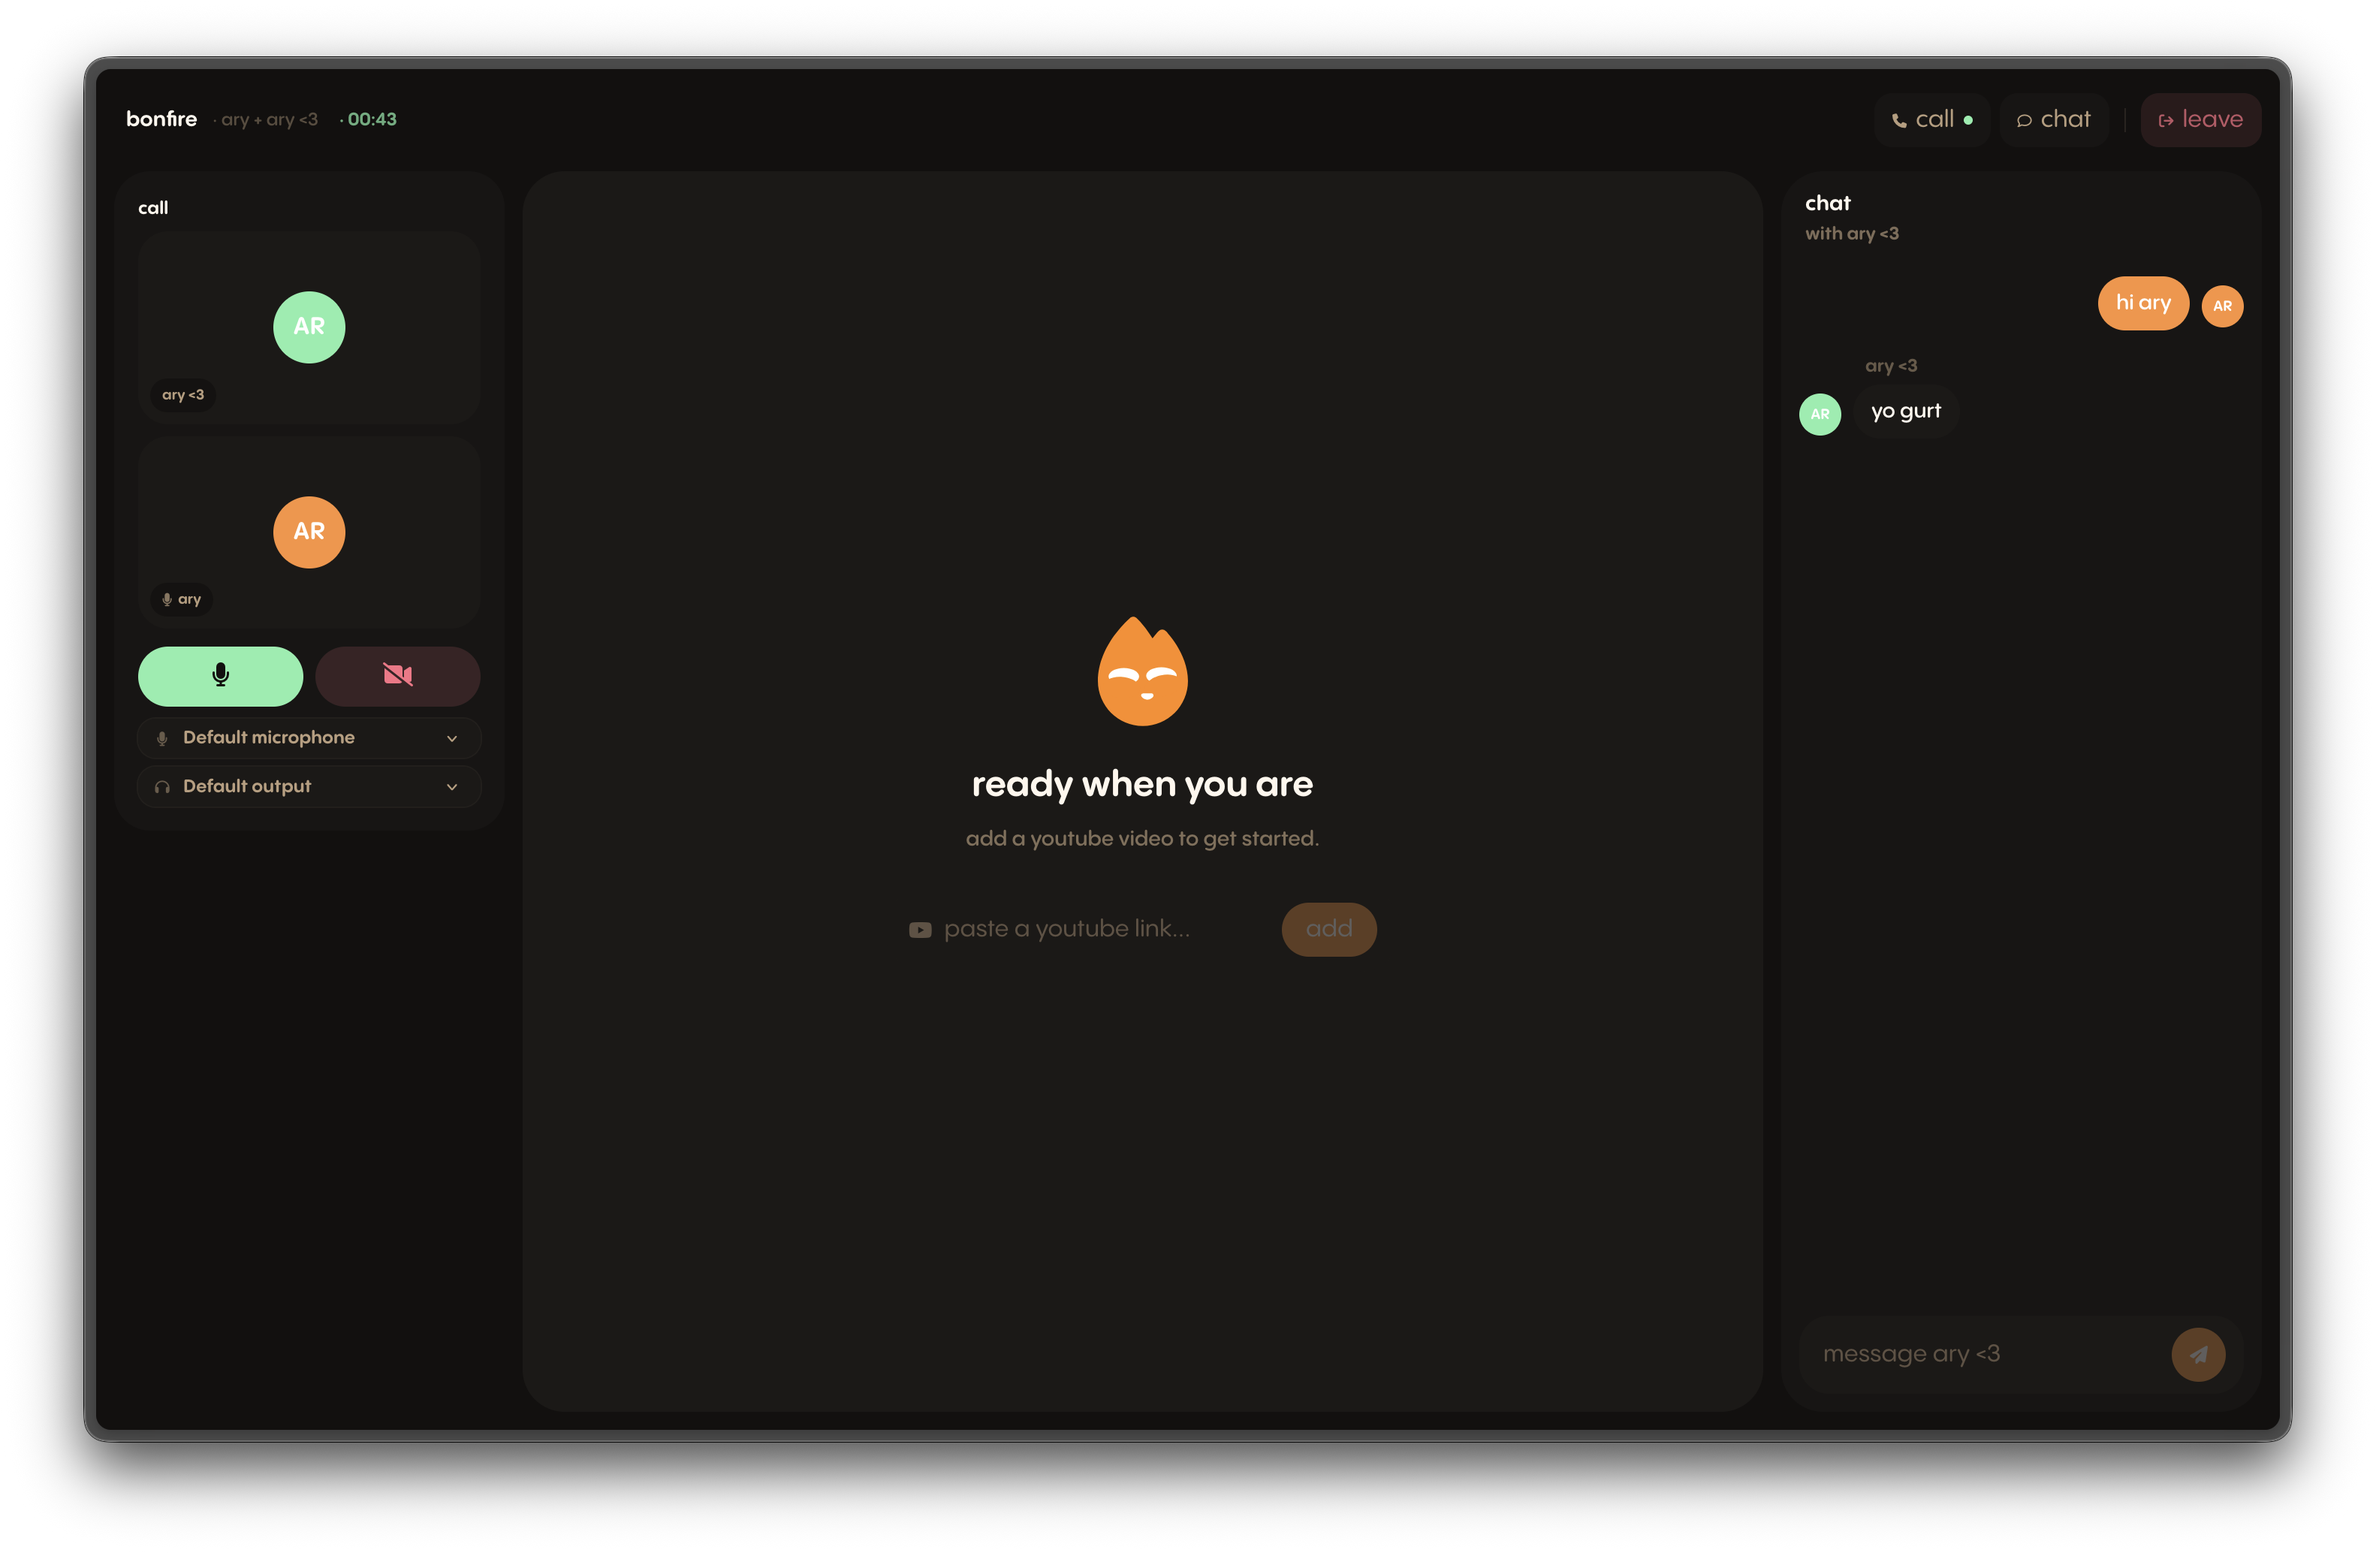
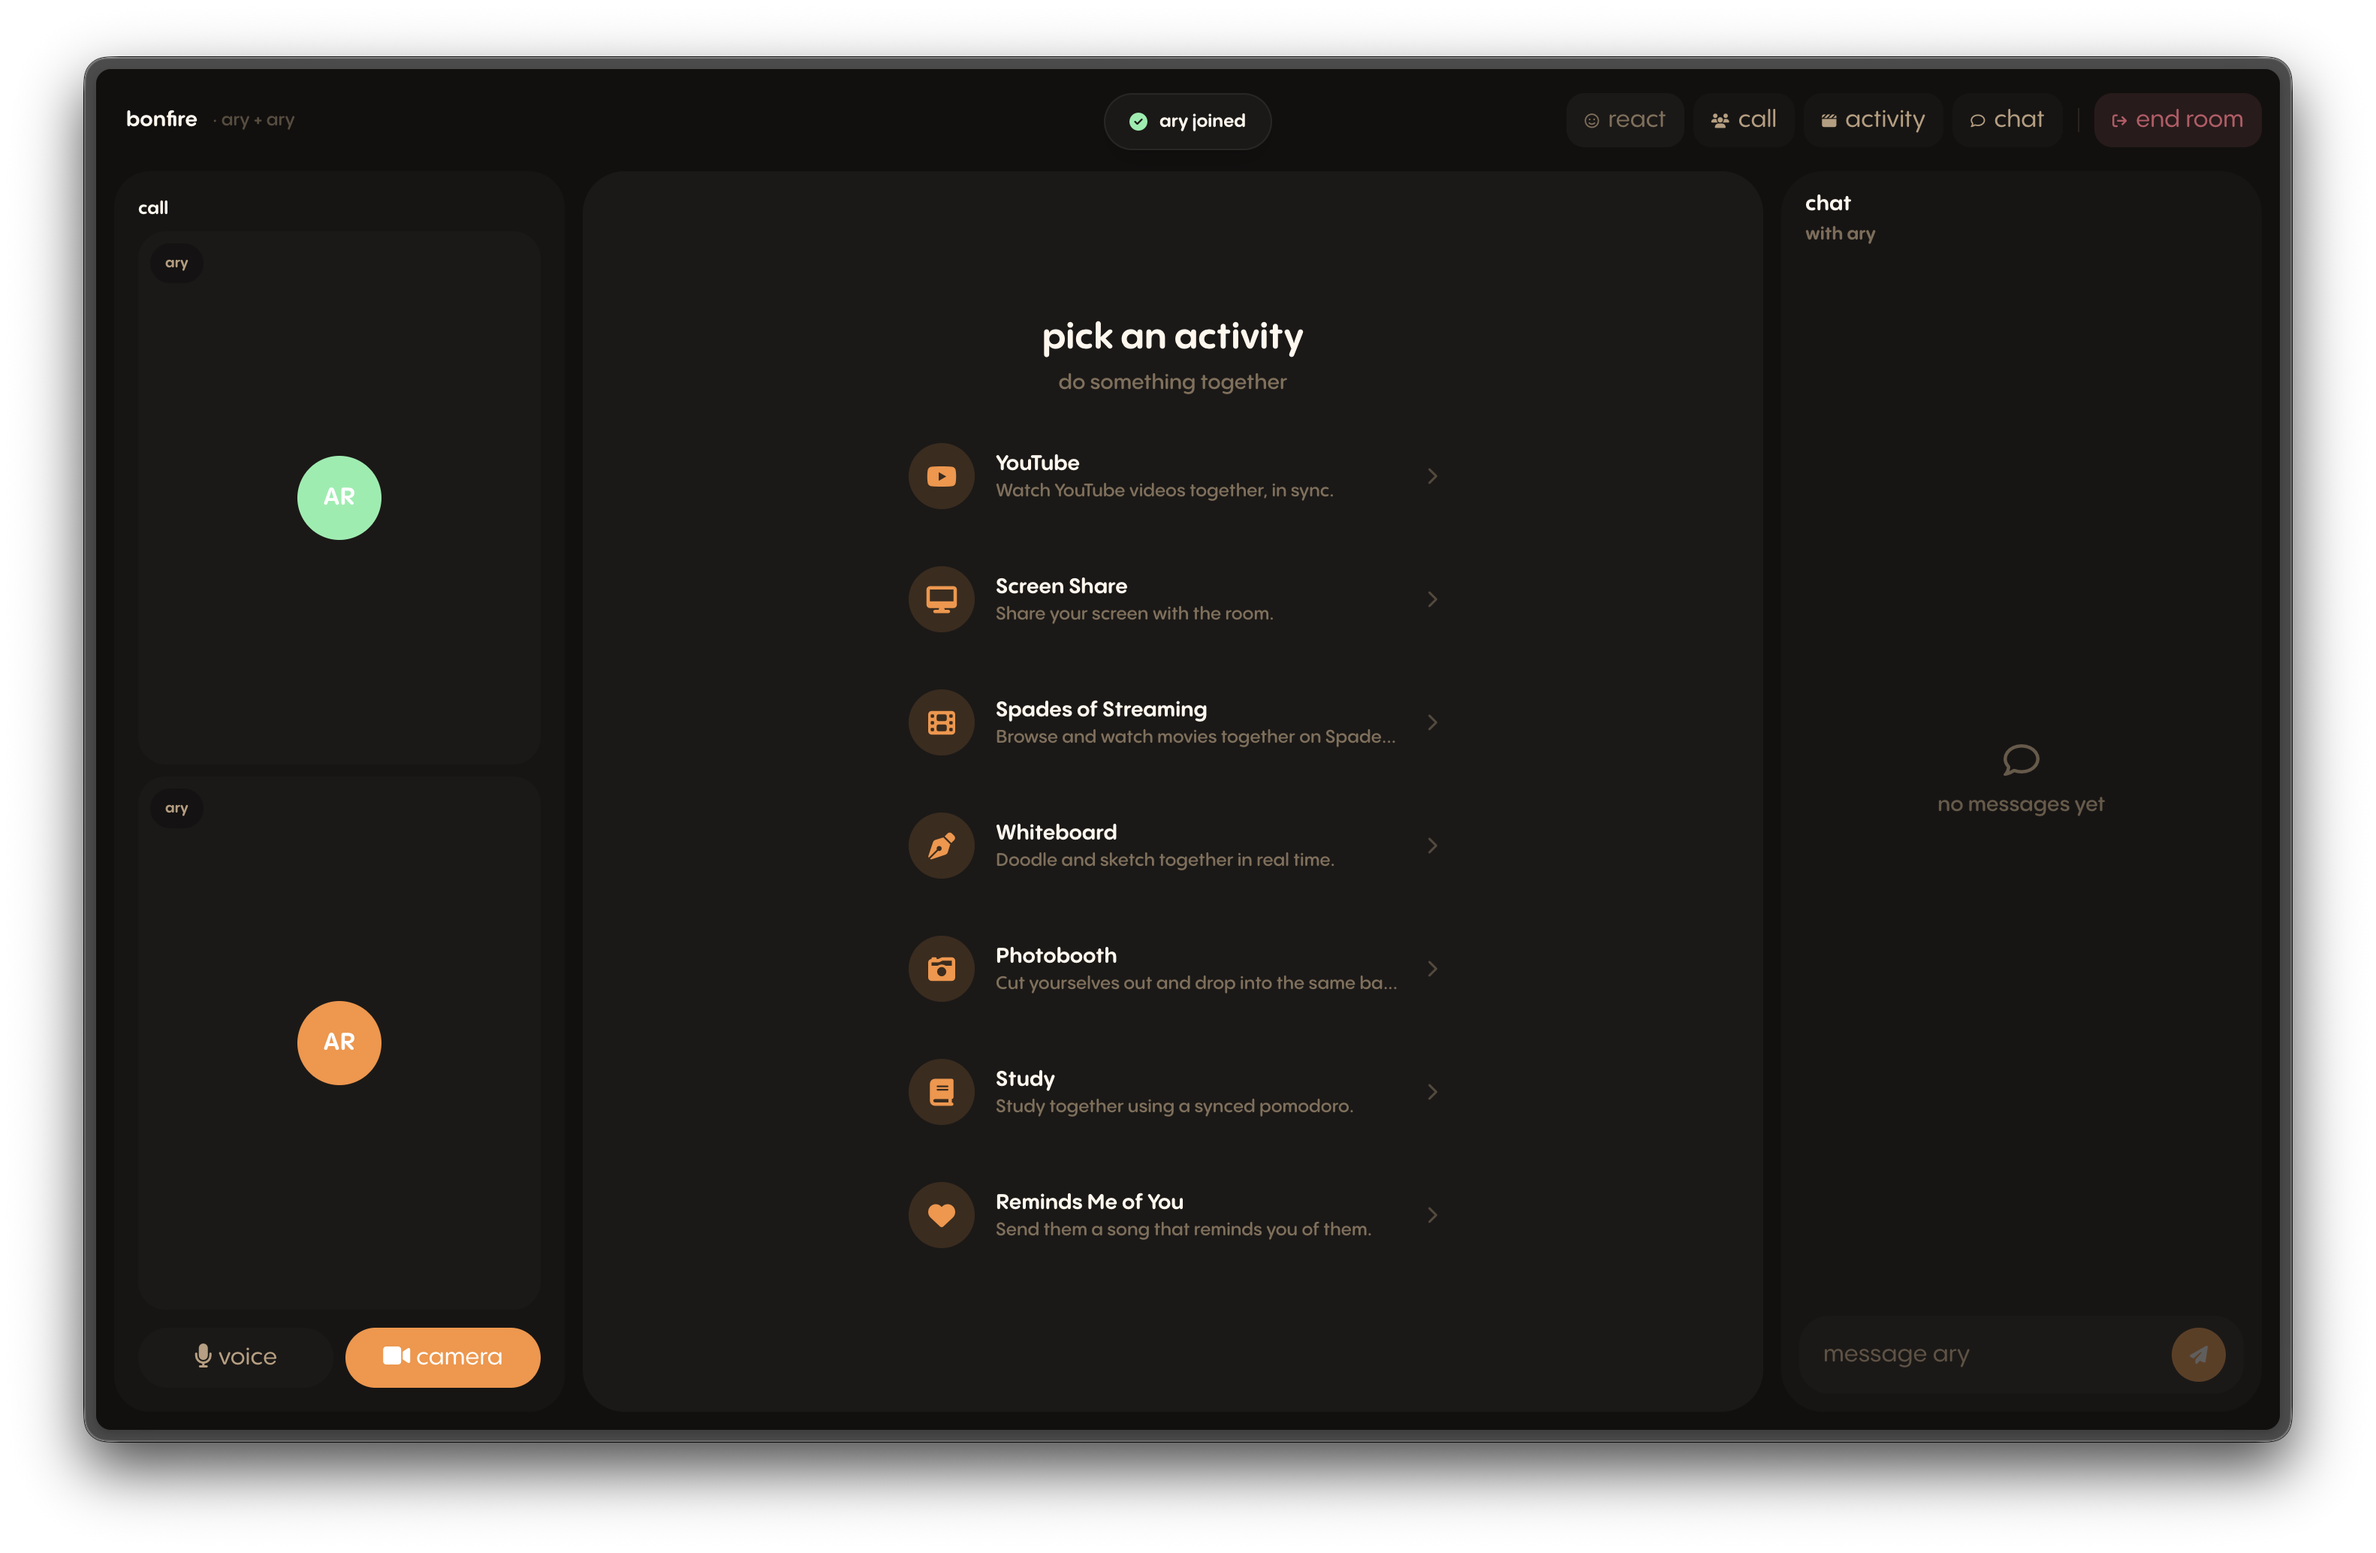
update readme

diff --git a/README.md b/README.md
@@ -23,10 +23,35 @@ No data is stored anywhere except for your nickname, which you enter at the star
 ## Experience
 Experience Bonfire [here.](https://usebonfire.vercel.app/)
 
+### Activity List
+
+#### YouTube
+Watch YouTube videos together, in sync.
+
+#### Screen Share
+Share your screen with the room.
+
+#### Spades of Streaming
+Browse and watch movies together on Spades of Streaming, my streaming service.
+
+#### Whiteboard
+Doodle and sketch together in real time.
+
+#### Photobooth
+Cut yourselves out and drop into the same background, almost like you're there together!
+
+#### Study
+Study together using a synced Pomodoro timer.
+
+#### Reminds Me of You by [Niyikes](https://github.com/niyikes/reminds-me-of-you)
+Send them a song that reminds you of them.
+
 ## AI Usage
 - debugging
 - css
 - prototyping video calls
+- photobooth
+- whiteboard bugs
 
 Made with ❤ by Ary<br>
 Love to the point of creation
